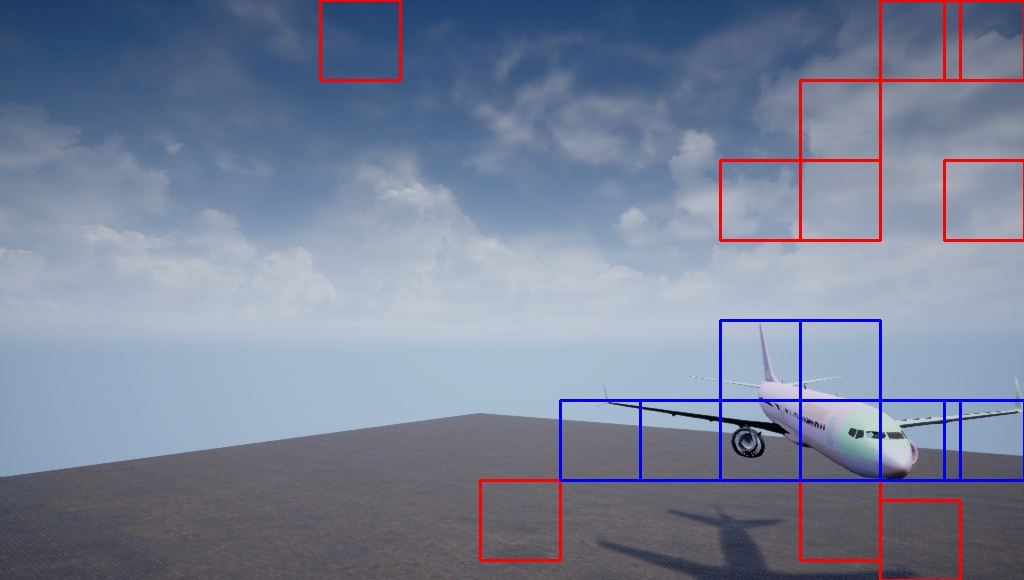
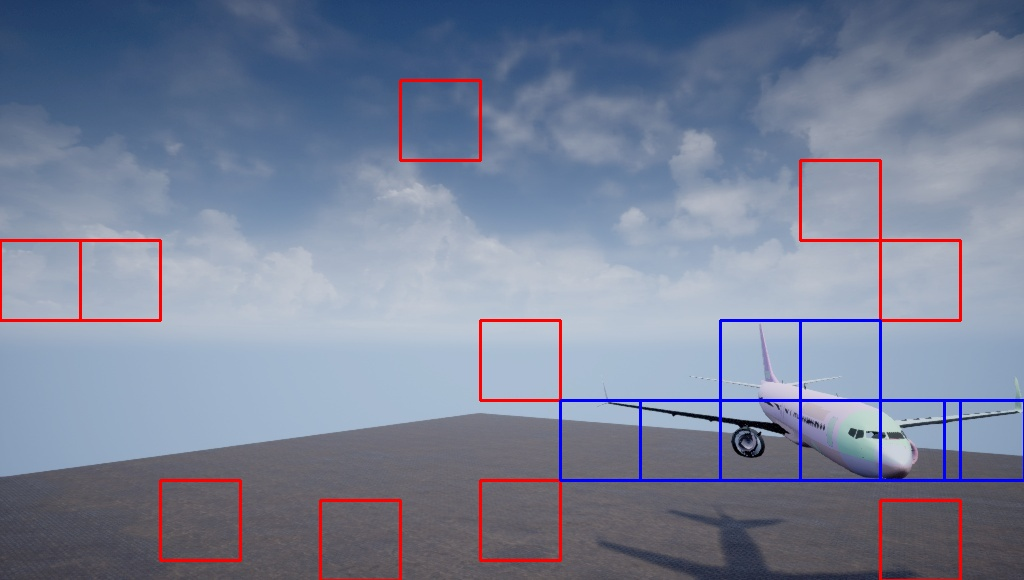
Calc plane possition, print dataDetection

diff --git a/Control/DetectionData.py b/Control/DetectionData.py
@@ -1,3 +1,7 @@
+from  os.path import isfile,isdir
+from os import makedirs
+from datetime import datetime
+
 class DetectionData:
     distance = 0
     myDirection = (0,0,0)
@@ -6,18 +10,70 @@ class DetectionData:
     myPossition = (0,0,0)
     otherPosition = (0,0,0)
 
-    def __init__(self,distance=None,myDirection=None,relativeDirection=None,
+    def __init__(self):
+        now_str = datetime.now().strftime('%Y-%m-%d_%H_%M')
+        self.file_path = f'../data/logs_voos/sensor_data_{now_str}.csv'
+
+    def updateData(self,distance=None,myDirection=None,relativePosition=None,
                  otherDirection=None,myPosition=None,otherPosition=None):
         self.distance = distance
-        self.myDirection = myDirection
-        self.relativeDirection = relativeDirection
         self.myPosition = myPosition
+        self.myDirection = myDirection
+        self.relativePosition= relativePosition
         self.otherPosition = otherPosition
+
+        if otherPosition is None:
+            self.otherPosition = self.calcOtherPosition()
+        else:
+            self.otherPosition = otherDirection
 
         if otherDirection is None:
             self.otherDirection = self.calcOtherDirection()
         else:
-            self.otherDirection = otherDirection
+            self.otherPosition = otherDirection
+
+    def calcOtherPosition(self):
+        if self.myDirection is not None and self.relativePosition is not None:
+            self.otherDirection = (self.myDirection[0] + self.relativePosition[0],
+                                   self.myDirection[1] + self.relativePosition[1],
+                                   self.myDirection[2] + self.relativePosition[2])
+        else:
+            return None
 
     def calcOtherDirection(self):
         pass
+
+    def add_listdata_str(self,str,listdata):
+        if listdata:
+            str += f"{listdata[0]},{listdata[1]},{listdata[2]},"
+        else:
+            str += ',,,'
+        return str
+
+    def check_have_file(self,file_path):
+        if isfile(file_path) == False:
+            file_name = file_path.split('/')[-1]
+            path = file_path.replace(file_name, '')
+            if isdir(path) == False:
+                makedirs(path)
+            with open(file_path, 'w') as file:
+                header = 'timestamp,distance,myX,myY,myZ,myDirX,myDirY,myDirZ,' \
+                         'relX,relY,relZ,otherX,otherY,otherZ,' \
+                         'otherDirX,otherDirY,otherDirZ'
+                file.write(header+'\n')
+
+    def print_data(self):
+        timestamp = datetime.timestamp()
+        str_print = f'{timestamp},{self.distance},'
+        list_datas = [self.myPosition,self.myDirection,
+                      self.relativePosition,self.otherPosition,
+                      self.otherDirection]
+        for data in list_datas:
+            str_print = self.add_listdata_str(str_print,data)
+        if self.file_path :
+            print(self.file_path,':',str_print)
+            self.check_have_file(self.file_path)
+            with open(self.file_path,'a') as file:
+                file.write(str_print+'\n')
+        else:
+            print(str_print)

diff --git a/AlgorithmsSensors/cam/VisionTracker.py b/AlgorithmsSensors/cam/VisionTracker.py
@@ -1,17 +1,20 @@
 from AlgorithmsSensors.cam.VisionBase import *
 from AlgorithmsSensors.cam.DetectObjClasses import *
 import time
+import numpy as np
 
 #class VisionRGBDefault(VisionBase):
-class VisionTrackerBase(VisionBase):
+class VisionTrackerBase(VisionDepthBase):
     name = "Vision RGB Default Algorithm"
 
-    def __init__(self,detectRoot):
+    def __init__(self,detectRoot,depth_cam=False):
         VisionBase.__init__(self, detectRoot)
         self.tracker = None
         self.detectObject = DetectSVM(self.config)
         #self.detectObject = DetectMog(self.config)
         self.cont_status = 0
+        if depth_cam:
+            self.getImage = self.getDepth
 
     def check_status(self,status):
         if status:
@@ -30,13 +33,14 @@ class VisionTrackerBase(VisionBase):
         while len(np.unique(start_frame)) < 20:
             start_frame = self.getImage()
         #Primeira detecção
-        bbox,frame = self.firstDetect()
+        bbox,frame = self.firstDetect(start_frame)
         self.tracker.init(frame, bbox)
 
     def detect(self):
         status = self.updateTracker()
-        if self.check_status(status):
-            self.start_detect()
+        if not self.check_status(status):
+            #restart tracker
+            self.start_tracker()
 
     def firstDetect(self,start_frame):
         bbox = None
@@ -46,36 +50,16 @@ class VisionTrackerBase(VisionBase):
             self.printDetection(frame,bbox)
         return bbox,frame
 
-    def mog2_ObjectDetect(self):
-        fgbg = cv2.createBackgroundSubtractorMOG2()
-        while True:
-            frame = self.getImage()
-            fgmask = fgbg.apply(frame)
-
-            thresh = cv2.threshold(fgmask, 25, 255, cv2.THRESH_BINARY)[1]
-            thresh = cv2.dilate(thresh, None, iterations=2)
-            contours,hierarchy = cv2.findContours(thresh.copy(), cv2.RETR_EXTERNAL,cv2.CHAIN_APPROX_SIMPLE)
-            if type(contours) is None or len(contours) <= 0:
-                continue
-            max = contours[0]
-            for c in contours:
-                if cv2.contourArea(c) >cv2.contourArea(max) :
-                    max = c
-            # (x, y, w, h) = cv2.boundingRect(max)
-            #Desenhando quadrado
-            # cv2.rectangle(frame, (x, y), (x+w, y+h), (255, 0, 0), 2, 1)
-            self.printDetection(frame,cv2.boundingRect(max))
-            self.detectRoot.receiveData(self.detectData)
-
     def updateTracker(self):
         frame = self.getImage()
         # Update tracker
-        if frame is None:
-            return False
-        else:
+        if frame is not None:
             ok, bbox = self.tracker.update(frame[:, :, :3])
             self.printDetection(frame,bbox)
+            self.calc_obj_position(bbox)
             return ok
+        else:
+            return False
 
 class VisionTracker_KFC(VisionTrackerBase):
     def __init__(self,detectRoot):

diff --git a/AlgorithmsSensors/cam/VisionBase.py b/AlgorithmsSensors/cam/VisionBase.py
@@ -12,7 +12,6 @@ class VisionBase(AlgorithmSensor):
 
     def __init__(self, detectRoot):
         AlgorithmSensor.__init__(self, detectRoot)
-        self.detectData = None
         self.depth = False
         self.cont = 0
         self.showVideo = self.config['sensors']['Vision']['show_video']
@@ -66,6 +65,32 @@ class VisionBase(AlgorithmSensor):
     def terminate(self):
         cv2.destroyAllWindows()
         self._stop_detect = True
+
+    def calc_obj_position(self, bbox, fov_angle=120, width_image=1024):
+        # calc x e y camera
+        x_camera = (bbox[0] + bbox[2]) / 2
+        y_camera = (bbox[1] + bbox[3]) / 2
+        # get focal legth
+        angle = float(fov_angle / 2.0)
+        part_width = float(width_image / 2.0)
+        focal_legh = (part_width / np.sin(np.deg2rad(angle))) * np.sin(np.deg2rad(30.0))  # regra seno
+        # calc distance camera
+        distance_camera_x = (x_camera ** 2 + focal_legh ** 2) ** 0.5  # hipotenusa
+        seno_angulo_plane_x =  x_camera / (np.sin(np.deg2rad(90)) * distance_camera_x)  # regra senos
+        distance_camera_y = (y_camera ** 2 + focal_legh ** 2) ** 0.5  # hipotenusa
+        seno_angulo_plane_y =   y_camera / (np.sin(np.deg2rad(90)) * distance_camera_y )   # regra senos
+        print("Seno:",seno_angulo_plane_x)
+        # calc x e y real
+        distance_real = self.calc_distance(bbox)
+        x_real = seno_angulo_plane_x * (distance_real / np.sin(np.deg2rad(90)))
+        y_real = seno_angulo_plane_y * (distance_real / np.sin(np.deg2rad(90)))
+        # Testar o z com regra de 3
+        # Seria nescessario decompor a distancia em x e y
+        z_real = (focal_legh * distance_real) / distance_camera_x
+        relativePosition = (x_real, y_real, z_real)
+        self.detectData.updateData(distance=distance_real, relativePosition=relativePosition)
+        self.detectData.print_data()
+        print("Relativo:",relativePosition,"Camera:",(x_camera,y_camera,distance_camera_x))
 '''
     def terminate(self):
         AlgorithmSensor.terminate(self)

diff --git a/AlgorithmsSensors/cam/VisionDepthTracker.py b/AlgorithmsSensors/cam/VisionDepthTracker.py
@@ -48,27 +48,6 @@ class VisionTrackerDepthBase(VisionDepthBase):
             self.printDetection(frame,bbox)
         return bbox,frame
 
-    def mog2_ObjectDetect(self):
-        fgbg = cv2.createBackgroundSubtractorMOG2()
-        while True:
-            frame = self.getImage()
-            fgmask = fgbg.apply(frame)
-
-            thresh = cv2.threshold(fgmask, 25, 255, cv2.THRESH_BINARY)[1]
-            thresh = cv2.dilate(thresh, None, iterations=2)
-            contours,hierarchy = cv2.findContours(thresh.copy(), cv2.RETR_EXTERNAL,cv2.CHAIN_APPROX_SIMPLE)
-            if type(contours) is None or len(contours) <= 0:
-                continue
-            max = contours[0]
-            for c in contours:
-                if cv2.contourArea(c) >cv2.contourArea(max) :
-                    max = c
-            # (x, y, w, h) = cv2.boundingRect(max)
-            #Desenhando quadrado
-            # cv2.rectangle(frame, (x, y), (x+w, y+h), (255, 0, 0), 2, 1)
-            self.printDetection(frame,cv2.boundingRect(max))
-            self.detectRoot.receiveData(self.detectData)
-
     def updateTracker(self):
         frame = self.getImage()
         # Update tracker
@@ -77,8 +56,7 @@ class VisionTrackerDepthBase(VisionDepthBase):
         else:
             status_tracker, bbox = self.tracker.update(frame[:, :, :3])
             distanceMin = self.calc_distance(bbox)
-            self.detectData = DetectionData(distanceMin)
-            self.detectRoot.receiveData(self.detectData)
+            self.detectData.updateData(distance=distanceMin)
             self.printDetection(frame, bbox)
             status = status_tracker and distanceMin
             return status

diff --git a/AlgorithmsSensors/cam/DetectObjClasses.py b/AlgorithmsSensors/cam/DetectObjClasses.py
@@ -62,6 +62,7 @@ class DetectMLBase(DetectBase):
         self.windowSizeY = self.config['algorithm']['vision']['windowSizeY']
         #load models
         self.dirModel = self.config['algorithm']['vision']['dirModels']+self.nameModel+'.sav'
+        print("Load model in path:",self.dirModel)
         self.model = pickle.load(open(self.dirModel, 'rb'))
         if namePrepDataModel:
             dirModelPrepData = self.config['algorithm']['vision']['dirModels'] + self.namePrepDataModel + '.sav'
@@ -86,6 +87,7 @@ class DetectMLBase(DetectBase):
                     bbox = (x, y, self.windowSizeX, self.windowSizeY)
                     return bbox
         return None
+
 
 class DetectSVM(DetectMLBase):
     def __init__(self, config,nameModel='lgb',namePrepDataModel='pca'):

diff --git a/AlgorithmsSensors/AlgorithmSensor.py b/AlgorithmsSensors/AlgorithmSensor.py
@@ -16,7 +16,7 @@ class AlgorithmSensor(Thread, ABC):
             self.config = yaml.full_load(file_config)
         self.client = airsim.MultirotorClient()
         self.detectRoot = detectRoot
-        self.detectData = None
+        self.detectData = DetectionData()
         self.interval = 0.25
         self._stop_detect = False
 
@@ -47,9 +47,6 @@ class AlgorithmSensor(Thread, ABC):
             name = self.name
         self.detectRoot.receiveData(self.detectData,name)
             # Desvio(self.controle).start()
-
-    def getStatus(self):
-        return self.detectData
 
     def terminate(self):
         self._stop_detect = True

diff --git a/AlgorithmsSensors/passive/ADS_B.py b/AlgorithmsSensors/passive/ADS_B.py
@@ -42,7 +42,7 @@ class ADS_B(AlgorithmSensor):
         my_position_vector = [my_position['x_val'], my_position['y_val'], my_position['z_val']]
         distance = self.cal_distance(intruse_position, my_position_vector)
         #send detect data
-        self.detectData = DetectionData(distance=distance,otherPosition=intruse_position)
+        self.detectData.updateData(distance=distance,otherPosition=intruse_position)
 
     def cal_distance(self,pos1,pos2,p=2):
         distance = ((pos1[0] - pos2[0])**p + (pos1[0] - pos2[0])**p + (pos1[0] - pos2[0])**p)**(1/p)

diff --git a/Detect/Detect.py b/Detect/Detect.py
@@ -47,7 +47,7 @@ class Detect(Thread):
         while not self.stop:
             dict_sensor_data = {}
             for sensorThread in self.sensorsThreads:
-                dict_sensor_data[sensorThread.name] = sensorThread.getStatus()
+                dict_sensor_data[sensorThread.name] = sensorThread.getDetectData()
             #colocar um eval para funsão do algoritmos
             detect_data = self.fusion_data(dict_sensor_data)
             self.sendData(detect_data)

diff --git a/Principal_multi_executions.py b/Principal_multi_executions.py
@@ -1,4 +1,5 @@
 from Interface.Start import Start
+from AlgorithmsSensors.cam.VisionTracker import *
 from AlgorithmsSensors.cam.VisionDepthTracker import *
 from AlgorithmsSensors.cam.VisionDetect import *
 from AlgorithmsSensors.cam_others.Vision_MOG import *
@@ -47,7 +48,7 @@ list_algorithms = [
     {"Vision":VisionDetect_MOG}
 ]
 
-list_algorithms = [{"Vision":VisionSaveAllImage}]
+list_algorithms = [{"Vision":VisionTracker_MIL}]
 
 #Configuração testes
 altura = 6
